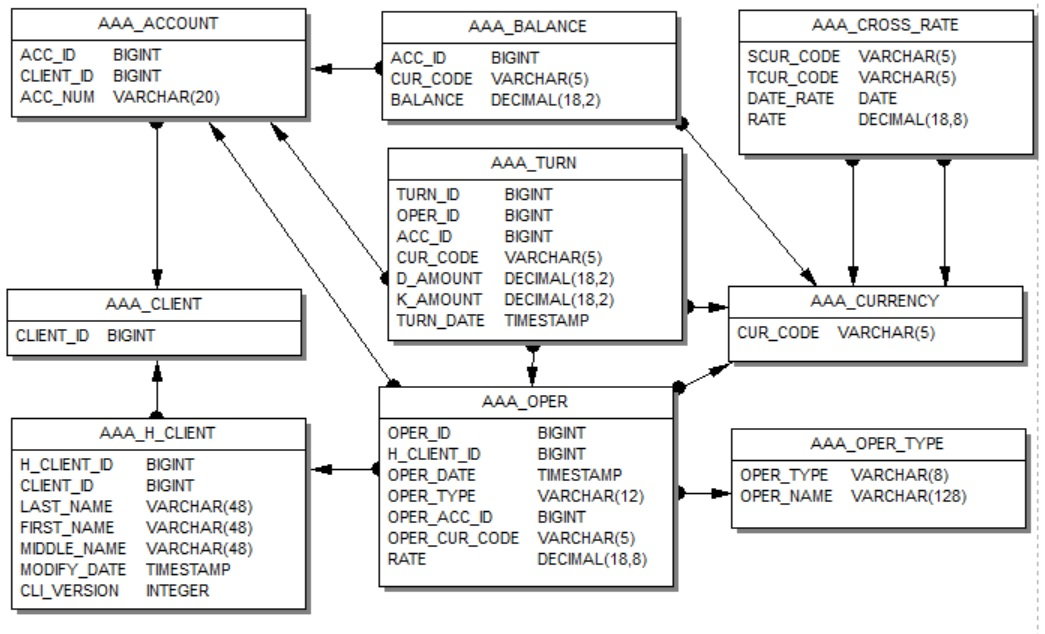
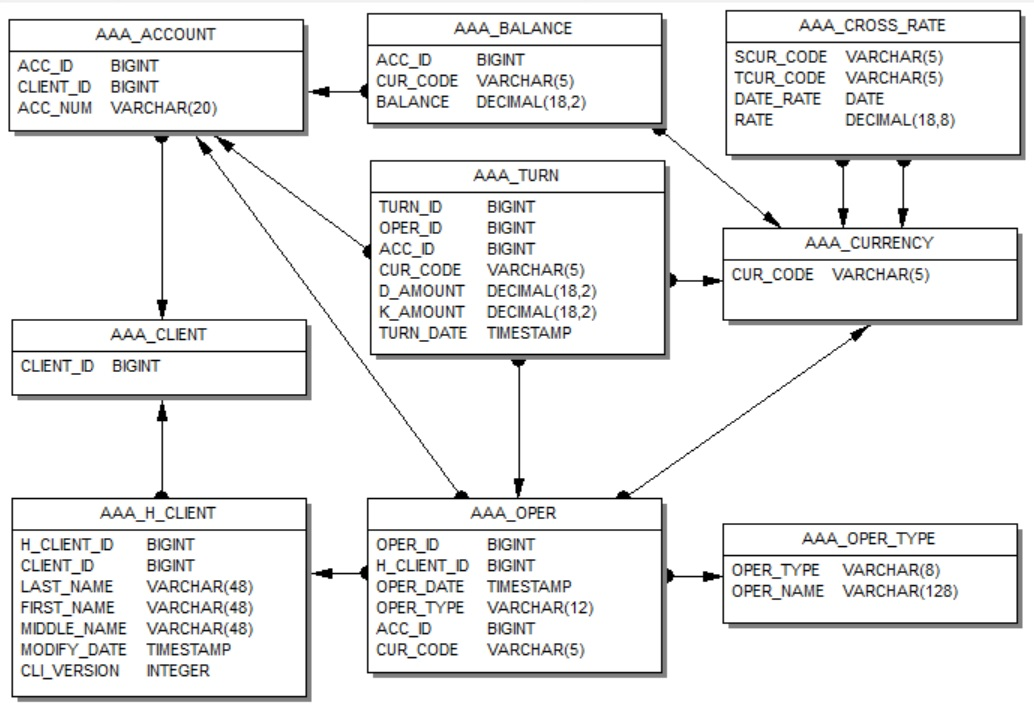
pre-test

Changed region(s): [[0.0, 0.0, 1.0, 0.989], [0.2476, 0.2997, 0.2785, 0.3596], [0.9903, 0.959, 1.0, 0.989]]

diff --git a/src/main/java/ru/transfer/init/DdlBatchQueries.java b/src/main/java/ru/transfer/init/DdlBatchQueries.java
@@ -65,8 +65,8 @@ public class DdlBatchQueries implements BatchQueries {
                     "h_client_id  bigint not null, " +
                     "oper_date timestamp not null, " +
                     "oper_type varchar(12) not null, " +
-                    "oper_acc_id bigint not null, " +
-                    "oper_cur_code varchar(5) not null);",
+                    "acc_id bigint not null, " +
+                    "cur_code varchar(5) not null);",
 
             "alter table aaa_oper add constraint f_oper_on_oper_type_oper_type foreign key (oper_type) " +
                     "references aaa_oper_type (oper_type);",
@@ -74,10 +74,10 @@ public class DdlBatchQueries implements BatchQueries {
             "alter table aaa_oper add constraint f_oper_on_h_client_h_client_id foreign key (h_client_id) " +
                     "references aaa_h_client (h_client_id);",
 
-            "alter table aaa_oper add constraint f_oper_on_acc_oper_acc_id foreign key (oper_acc_id) " +
+            "alter table aaa_oper add constraint f_oper_on_acc_acc_id foreign key (acc_id) " +
                     "references aaa_account (acc_id);",
 
-            "alter table aaa_oper add constraint f_oper_on_curr_oper_cur_code foreign key (oper_cur_code) " +
+            "alter table aaa_oper add constraint f_oper_on_curr_cur_code foreign key (cur_code) " +
                     "references aaa_currency (cur_code);",
 
             "create index ix_oper_date on aaa_oper (oper_date desc);",

diff --git a/src/main/java/ru/transfer/dao/AnalyticalDaoImpl.java b/src/main/java/ru/transfer/dao/AnalyticalDaoImpl.java
@@ -260,7 +260,7 @@ public class AnalyticalDaoImpl implements AnalyticalDao {
                             "           s.d_amount - s.k_amount as amount, sa.acc_id, sa.acc_num, s.cur_code, s.turn_date\n" +
                             "    from aaa_oper o\n" +
                             "    join aaa_h_client hc on hc.h_client_id = o.h_client_id \n" +
-                            "    join aaa_turn s on o.oper_id = s.oper_id and o.oper_acc_id = s.acc_id and o.oper_cur_code = s.cur_code\n" +
+                            "    join aaa_turn s on o.oper_id = s.oper_id and o.acc_id = s.acc_id and o.cur_code = s.cur_code\n" +
                             "    join aaa_account sa on sa.acc_id = s.acc_id\n" +
                             "    where sa.acc_num = ? and o.oper_date between ? and ? ) x\n" +
                             "left join aaa_turn t on x.oper_id = t.oper_id and (x.acc_id != t.acc_id or x.cur_code != t.cur_code )\n" +

diff --git a/src/main/java/ru/transfer/dao/OperationDaoImpl.java b/src/main/java/ru/transfer/dao/OperationDaoImpl.java
@@ -67,7 +67,7 @@ public class OperationDaoImpl implements OperationDao {
         }
 
         if (jdbc.executeUpdate(
-                "insert into aaa_oper (oper_id, h_client_id, oper_date, oper_type, oper_acc_id, oper_cur_code)\n" +
+                "insert into aaa_oper (oper_id, h_client_id, oper_date, oper_type, acc_id, cur_code)\n" +
                         "values (?, ?, ?, ?, ?, ?)", new Object[]{
                         extract.getOperId(),
                         extract.getHClientId(),
